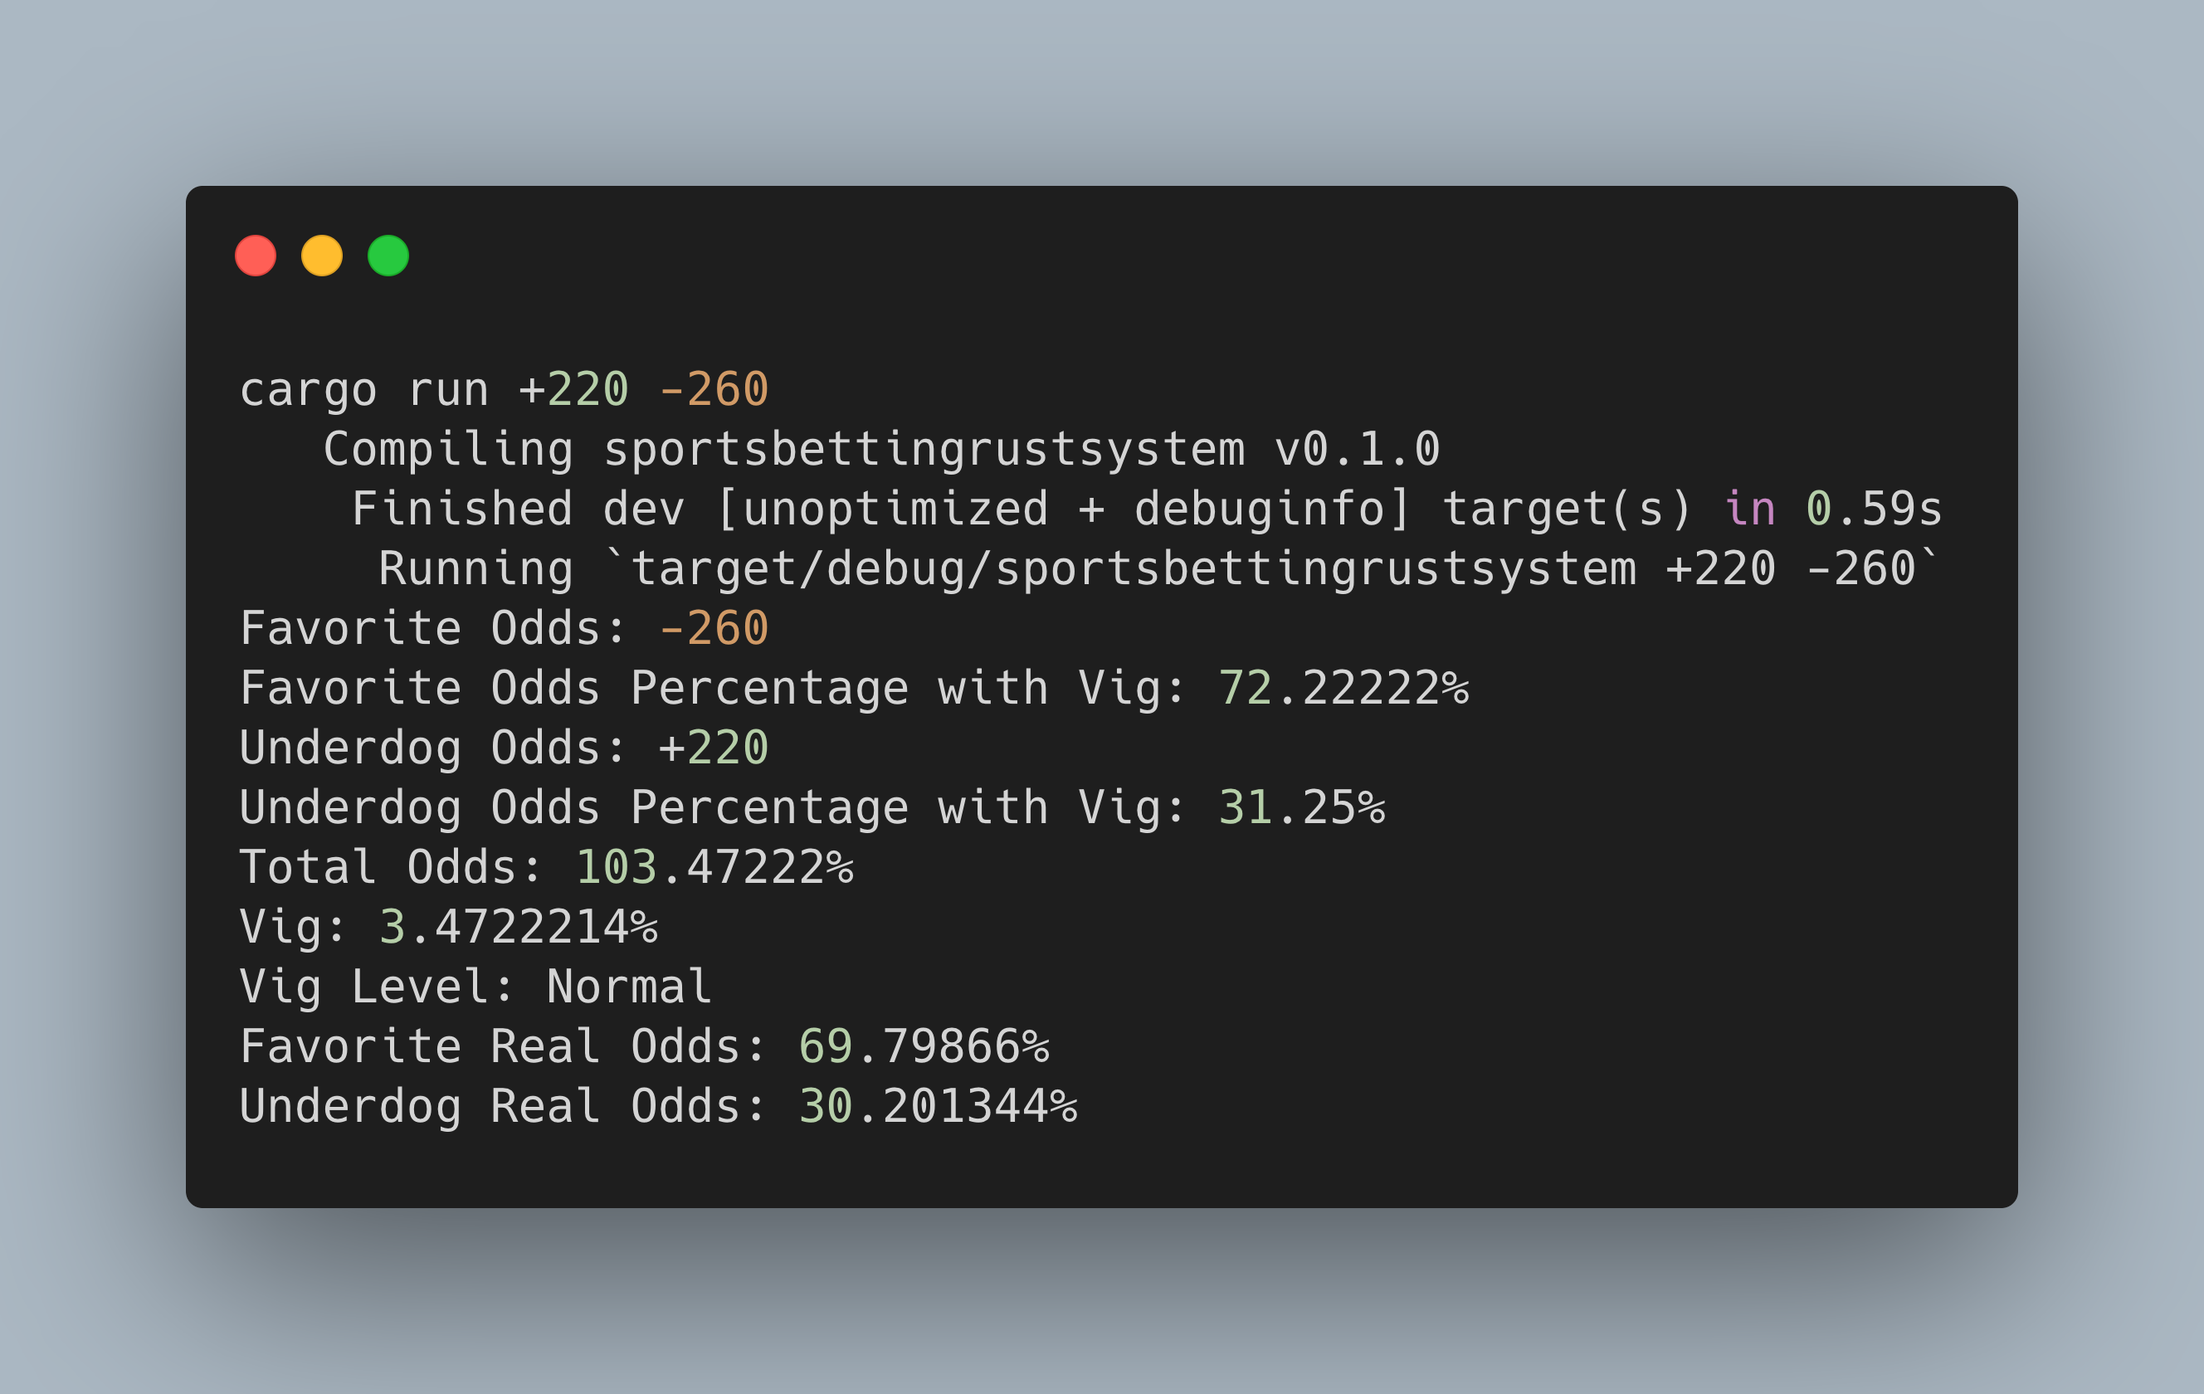
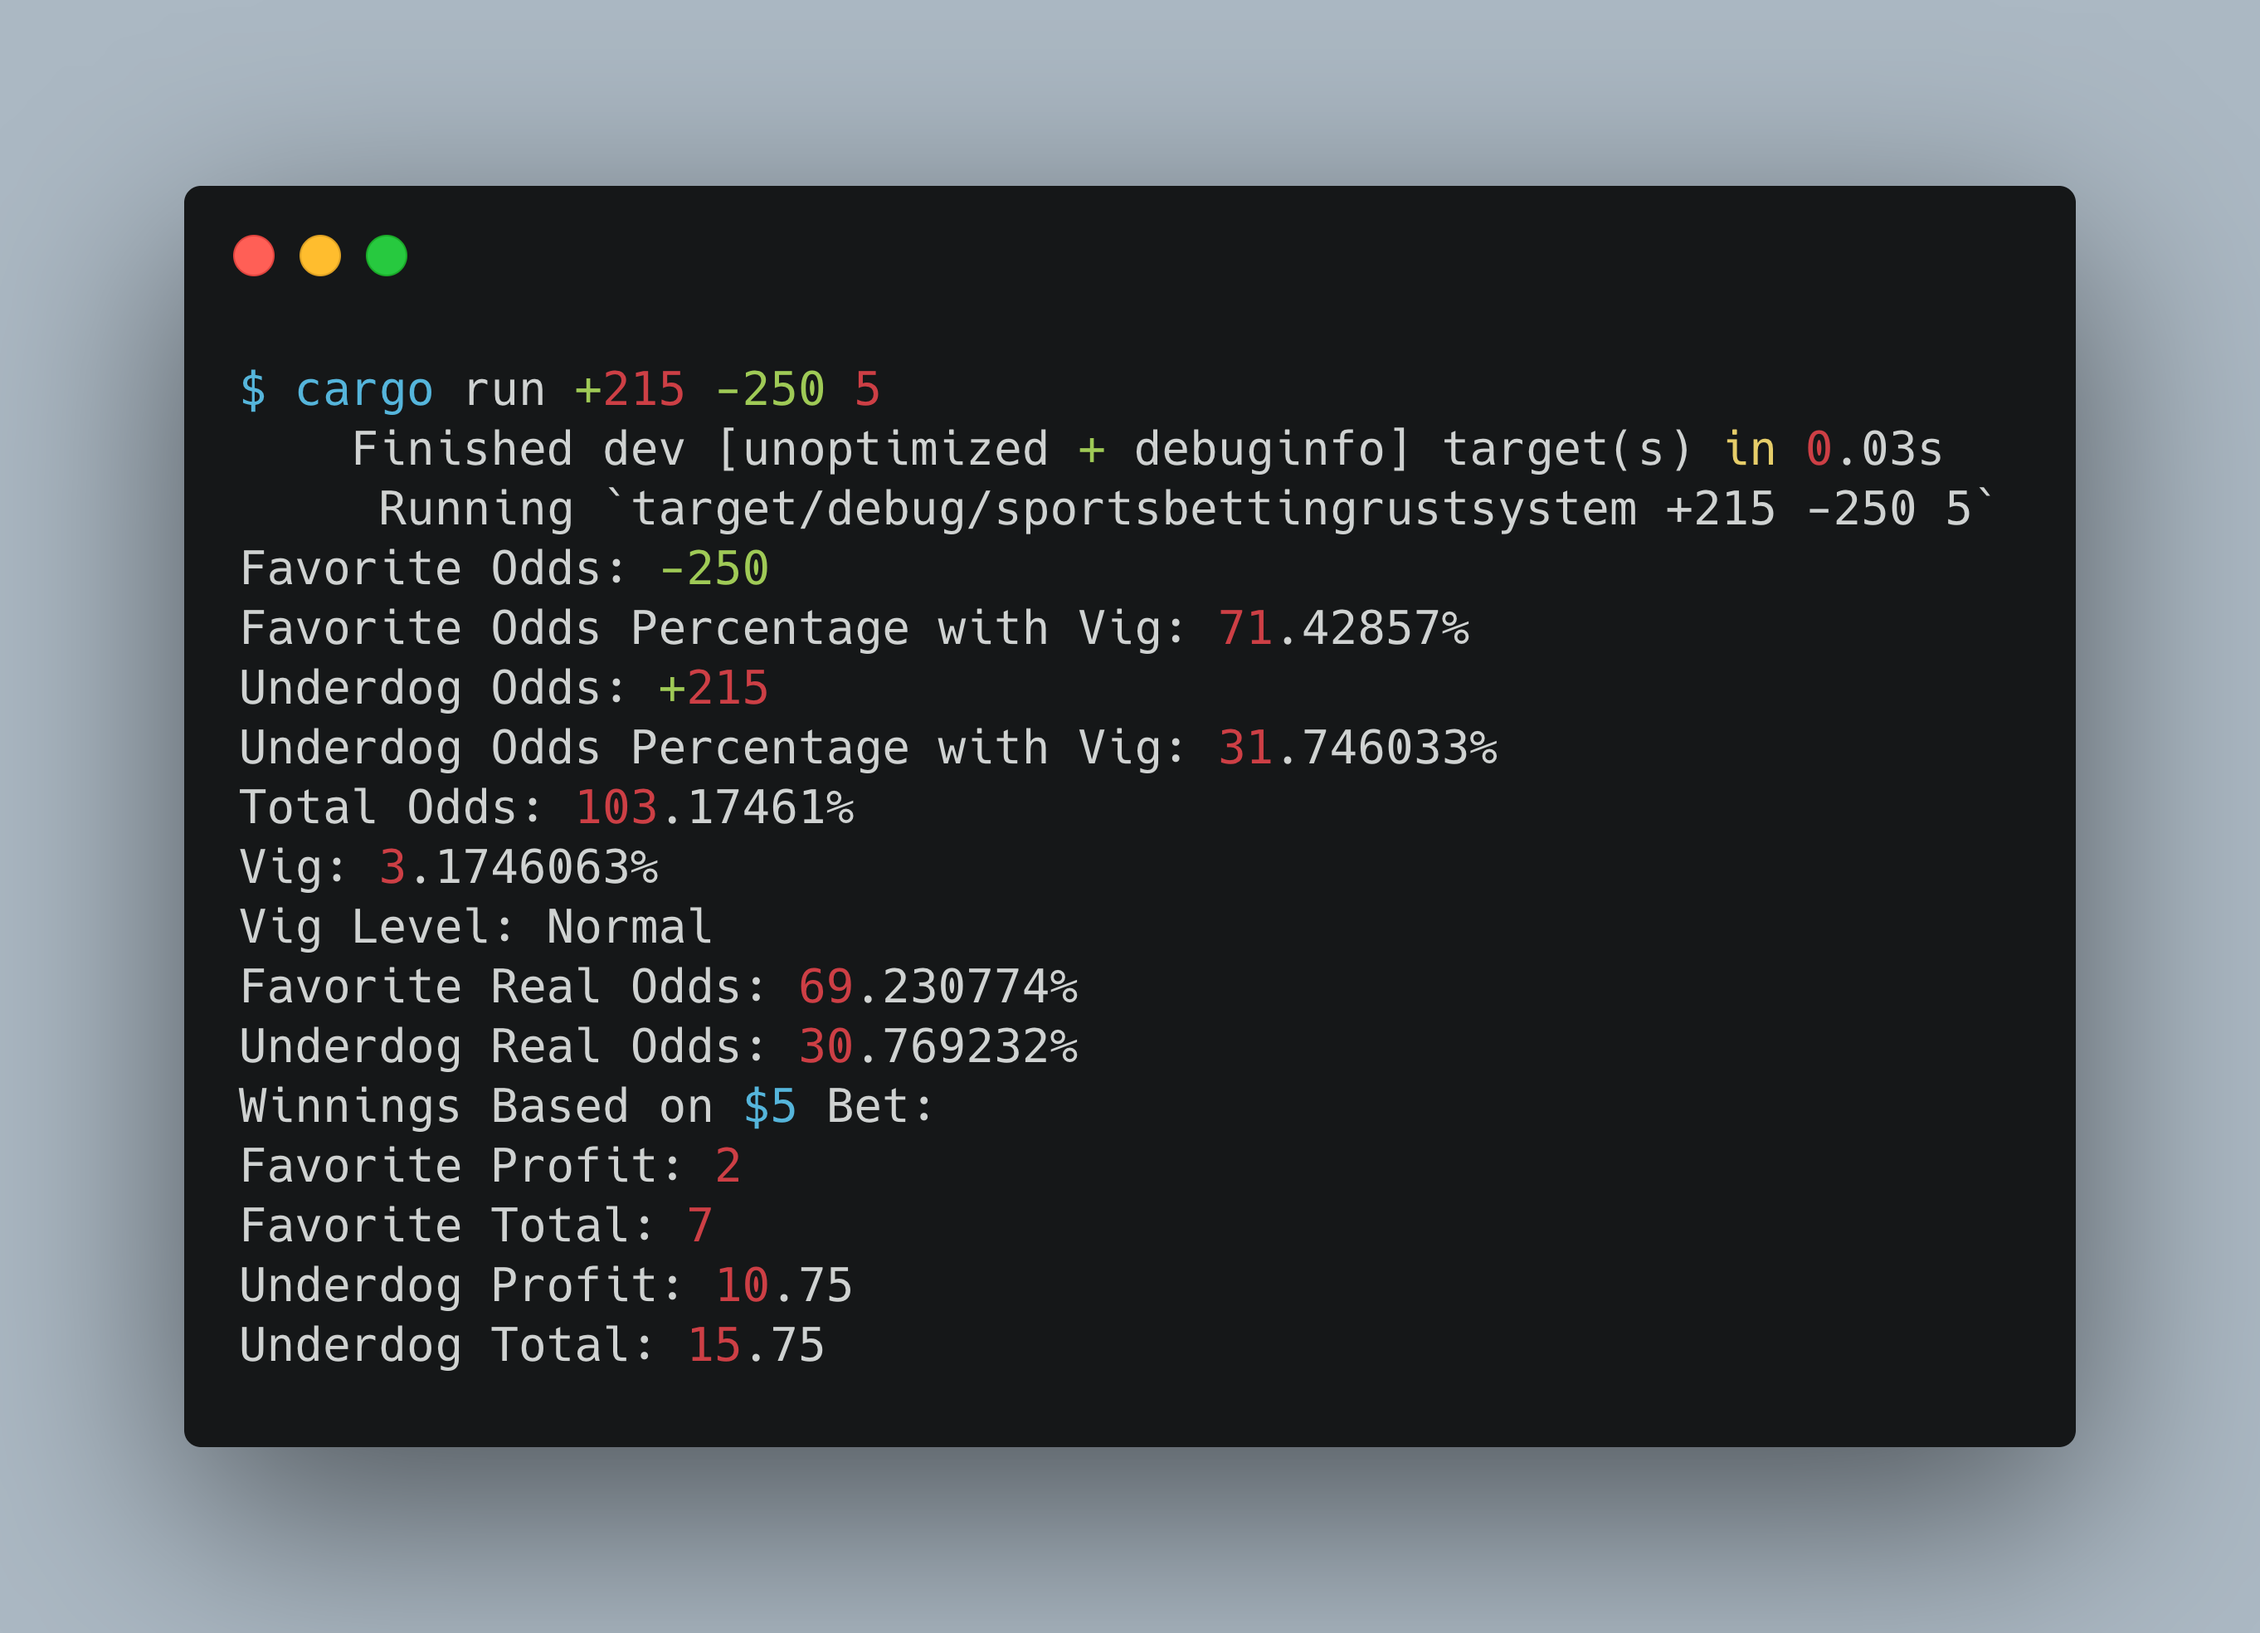
added bet

Changed region(s): [[0.0625, 0.0929, 0.9375, 0.8357], [0.0625, 0.8357, 0.9375, 0.8976], [0.75, 0.2786, 0.7812, 0.3405]]

diff --git a/src/common.rs b/src/common.rs
@@ -38,11 +38,25 @@ pub fn get_real_odds(fav: f32, ud: f32) {
   println!("Favorite Real Odds: {}{}", favorite.to_string().red(), "%".red());
   println!("Underdog Real Odds: {}{}", underdog.to_string().red(), "%".red());
 }
+pub fn get_payouts(ud: f32, fav: f32, bet: f32) {
+  let newfav: f32 = fav * -1.0;
+  let favorite: f32 = (bet / newfav) * 100.0;
+  let underdog: f32 = (bet * ud) / 100.0;
+
+  let fav_total: f32 = bet + favorite;
+  let ud_total: f32 = bet + underdog;
+  println!("Favorite Profit: {}", favorite.to_string().green());
+  println!("Favorite Total: {}", fav_total.to_string().yellow());
+  println!("Underdog Profit: {}", underdog.to_string().green());
+  println!("Underdog Total: {}", ud_total.to_string().yellow());
+}
+// +350 1.13  bet * ud/100
+// -455 .30 
 pub fn help() {
-  println!("{}{}{}{}{}{}", "Need to Pass in Underdog and Favorite\n".yellow(),
+  println!("{}{}{}{}{}{}{}", "Need to Pass in Underdog, Favorite and Bet\n".yellow(),
 "usage:
-cargo run <underdog> <favorite>\n".cyan(),
+cargo run <underdog> <favorite> <bet>\n".cyan(),
 "The underdog is the positive number and the favorite is the negative number\n".yellow(),
 "example:
-cargo run ".cyan(), "+250 ".red().bold(), "-260".red().bold());
+cargo run ".cyan(), "+250 ".red().bold(), "-260".red().bold(), "1.50".red().bold());
 }

diff --git a/src/main.rs b/src/main.rs
@@ -13,11 +13,16 @@ fn main() {
             common::help();
         },
         3 => {
+            common::help();
+        },
+        4 => {
             let odds1 = &args[1];
             let odds2 = &args[2];
+            let bet = &args[3];
 
             let o1: i32 = odds1.parse().unwrap();
             let o2: i32 = odds2.parse().unwrap();
+            let o3: f32 = bet.parse().unwrap();
 
             let fav: f32 = common::favorite_odds_juice(o2);
             let ud: f32 = common::favorite_odds_juice(o1);
@@ -28,6 +33,10 @@ fn main() {
             let vig_level = common::get_vig_level(vig);
             println!("Vig Level: {}", vig_level);
             common::get_real_odds(fav, ud);
+            println!("Winnings Based on ${} Bet:", bet.to_string().cyan());
+            let newfav: f32 = o2 as f32;
+            let newud: f32 = o1 as f32;
+            common::get_payouts(newud, newfav, o3);
         }
          // all the other cases
         _ => {

diff --git a/README.md b/README.md
@@ -1,12 +1,20 @@
 # sportsbettingrustsystem
 
+Tool for betting the moneyline with American Odds
 ```
 usage:
-cargo run <underdog> <favorite>
+cargo run <underdog> <favorite> <bet>
 ```
 
+A normal bettor betting $20
 ```
 example:
-cargo run +250 -260
+cargo run +250 -260 20
+```
+
+Being cheap and betting a quarter
+```
+example:
+cargo run +250 -260 .25
 ```
 ![Result Example](carbon.png)
